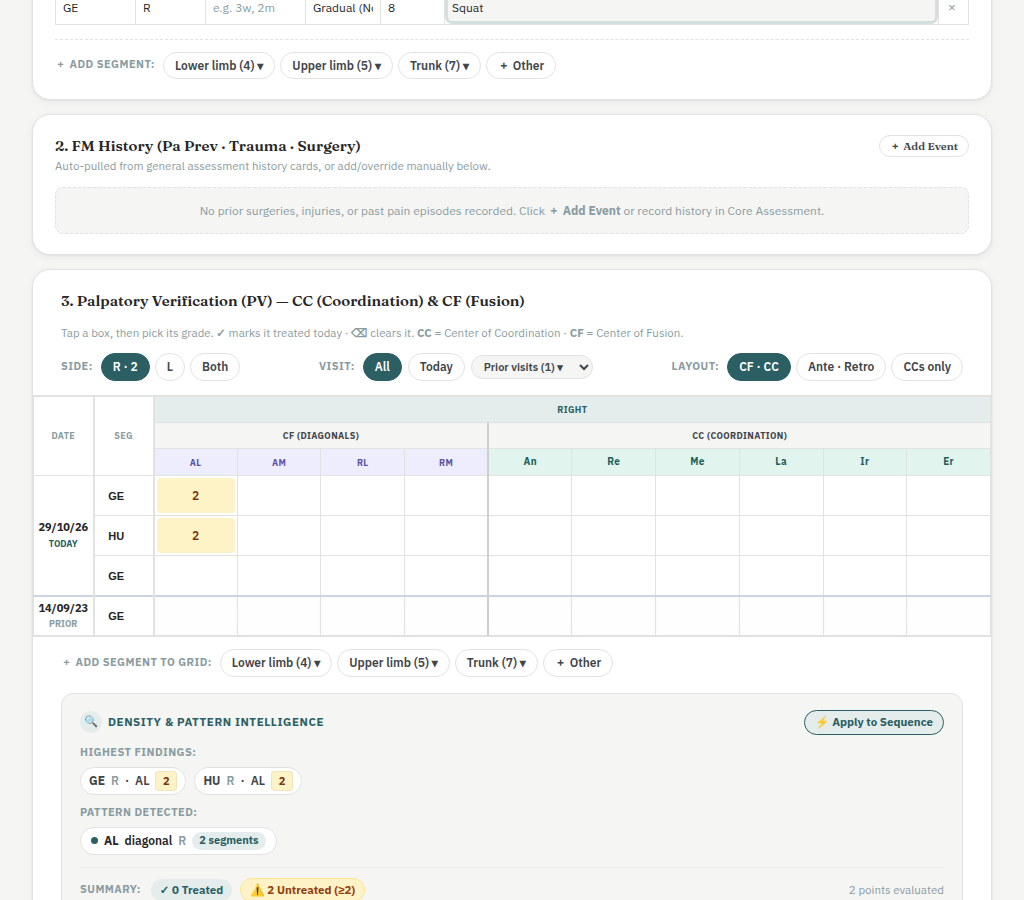
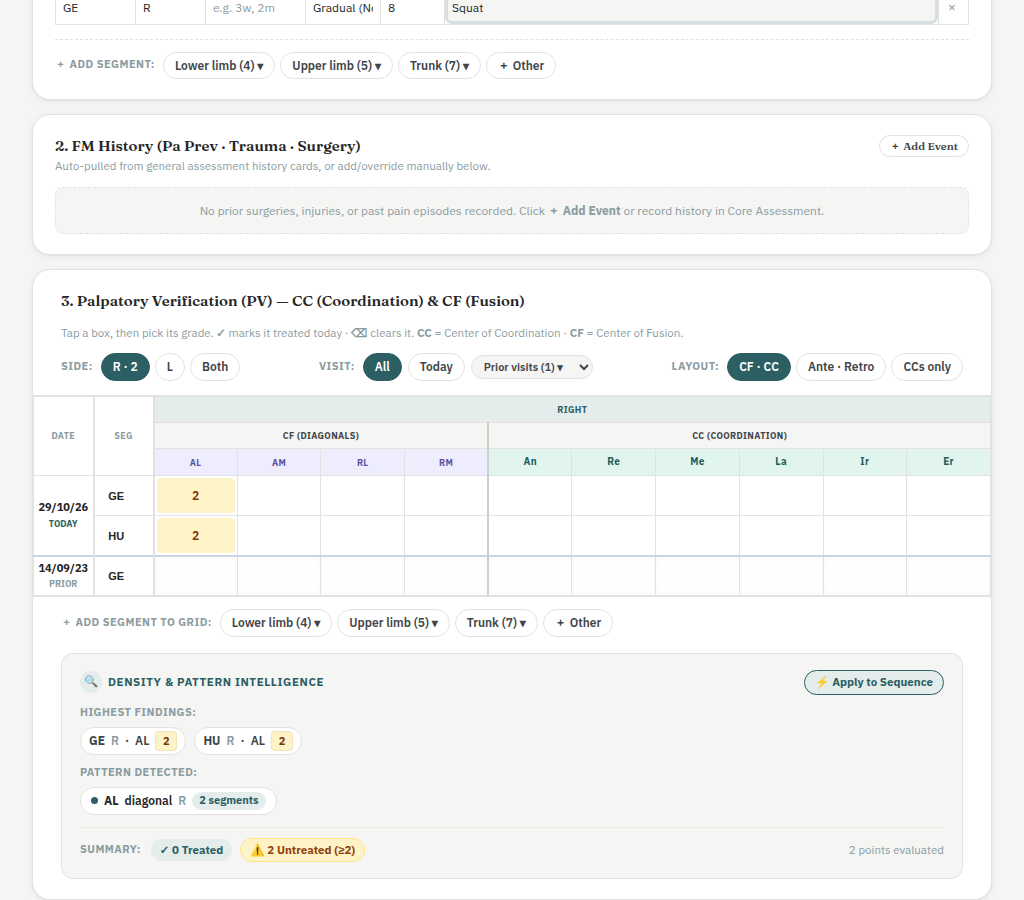
fix(fm): decouple card 1 segment picker from card 3 palpation grid

diff --git a/clinical-note.html b/clinical-note.html
@@ -9277,7 +9277,7 @@ setupSegmented('patient-progress');
     let gridMissingTimer = null;
     ['click', 'input', 'change'].forEach(ev => document.addEventListener(ev, () => { clearTimeout(gridMissingTimer); gridMissingTimer = setTimeout(refreshGridMissing, 120); }));
 
-    function addFmSegment(dateStr, segStr, addToPv = true, addToSeg = true) {
+    function addFmSegment(dateStr, segStr, addToPv = false, addToSeg = true) {
         let uniqueId = 'seg-' + Date.now() + Math.floor(Math.random() * 1000);
         const today = new Date().toLocaleDateString('en-GB', {day:'2-digit', month:'2-digit', year:'2-digit'});
         if (dateStr === 'today') dateStr = today;
@@ -9301,7 +9301,7 @@ setupSegmented('patient-progress');
         }
 
         // --- 2. Add to PV Grid in active layout order ---
-        if (pvTableBody && addToPv) {
+        if (pvTableBody && (addToPv || isPrior)) {
             let trPv = document.createElement('tr');
             trPv.setAttribute('data-seg-id', uniqueId);
             trPv.setAttribute('data-seg', segStr);
@@ -9418,7 +9418,7 @@ setupSegmented('patient-progress');
     if (addSegBtn) {
         addSegBtn.addEventListener('click', function() {
             let today = new Date().toLocaleDateString('en-GB', {day:'2-digit', month:'2-digit', year:'2-digit'});
-            addFmSegment(today, "");
+            addFmSegment(today, "", false, true);
         });
     }
 
@@ -9523,7 +9523,7 @@ setupSegmented('patient-progress');
                 const chip = e.target.closest('.fm-seg-chip');
                 if (!chip) return;
                 const today = new Date().toLocaleDateString('en-GB', {day:'2-digit', month:'2-digit', year:'2-digit'});
-                addFmSegment(today, chip.getAttribute('data-seg'));
+                addFmSegment(today, chip.getAttribute('data-seg'), false, true);
             });
         }
 

diff --git a/PROTOTYPE_CHANGELOG.md b/PROTOTYPE_CHANGELOG.md
@@ -553,7 +553,10 @@ Written from the commit messages plus a hands-on check (every suite run, page pr
     - Indicates manual apparatus / tensile selections (`✓ ADI · TLU, TPV`).
     - Excluded from signed-note disabling so clinicians can expand and read recorded notes on signed records.
   - Multi-select apparatus chips (`ADI`, `ARE`, `ACI`, `AUN`, `AEN`, `AHE`, `APR`) unioning tensile structure suggestions (`APPARATUS_TENSILE_STRUCTURES`).
-- **Strict Card 1 Routing (Card 3 Remains Deliberate Therapist Choice):**
+- **Strict Card 1 Routing & Card 3 Palpation Grid Decoupling:**
+  - Decoupled Card 1 Segment Assessment picker (`#fm-region-drawer .fm-seg-chip`) and "＋ Other" (`#fm-add-seg`) from Card 3 Palpation Grid: picking or adding a segment in Card 1 now explicitly passes `addToPv = false, addToSeg = true`.
+  - `addFmSegment(dateStr, segStr, addToPv = false, addToSeg = true)` default for `addToPv` is now `false`, guaranteeing that no complaint, systemic symptom, internal dysfunction, or Card 1 segment picker action ever auto-populates Card 3.
+  - Card 3 Palpation Grid starts completely blank for the current visit. The therapist retains 100% manual freedom to choose which segments to palpate (via Card 3's own `#pv-add-region-tabs` picker, "＋ Other", or the optional `#fm-grid-missing` strip), allowing cases where a patient presenting with knee pain (GE) is examined for Cx, PV, Ta, or PE while leaving GE unpalpated.
   - Added `#fm-tensile-routing-field` and `#fm-tensile-routing-chips` dynamically rendering one-tap routing pills for suggested/selected tensile structures (`TCP` → `CP1`, `CL`; `TCL` → `CL`; `TTH` → `TH`; `TLU` → `LU`; `TPV` → `PV`).
   - Tapping a routing chip invokes `window.routeFmSegment(...)` with `addToPv = false, addToSeg = true`, populating Card 1 Segment Assessment and syncing the Mo/Ve row without adding any rows to Card 3 (Palpation Grid).
   - Duplicate prevention: If a segment is already recorded in Card 1 (from Core auto-routing or manual entry), the chip renders as a confirmed badge (`✓ LU in Card 1`) instead of creating a duplicate row.
